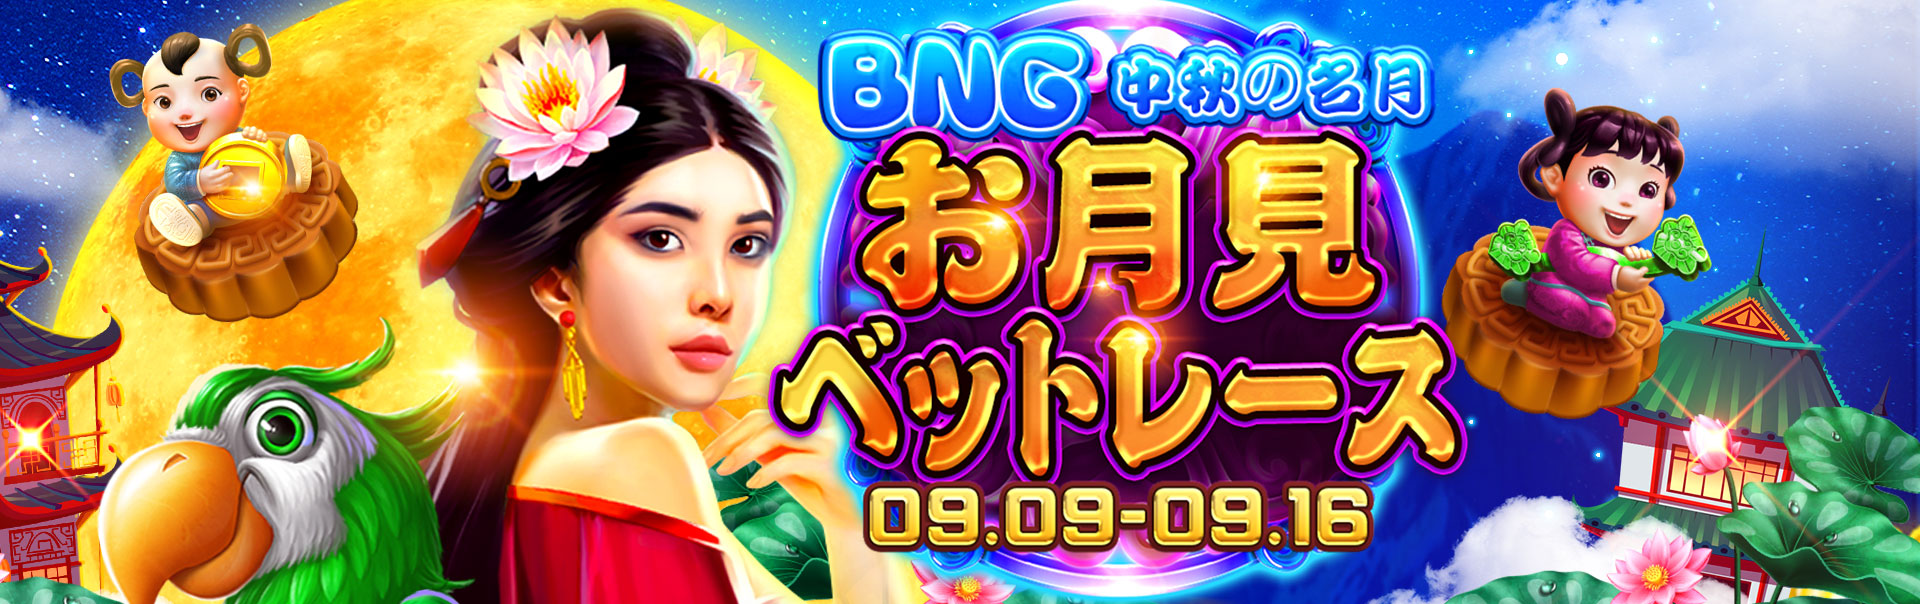
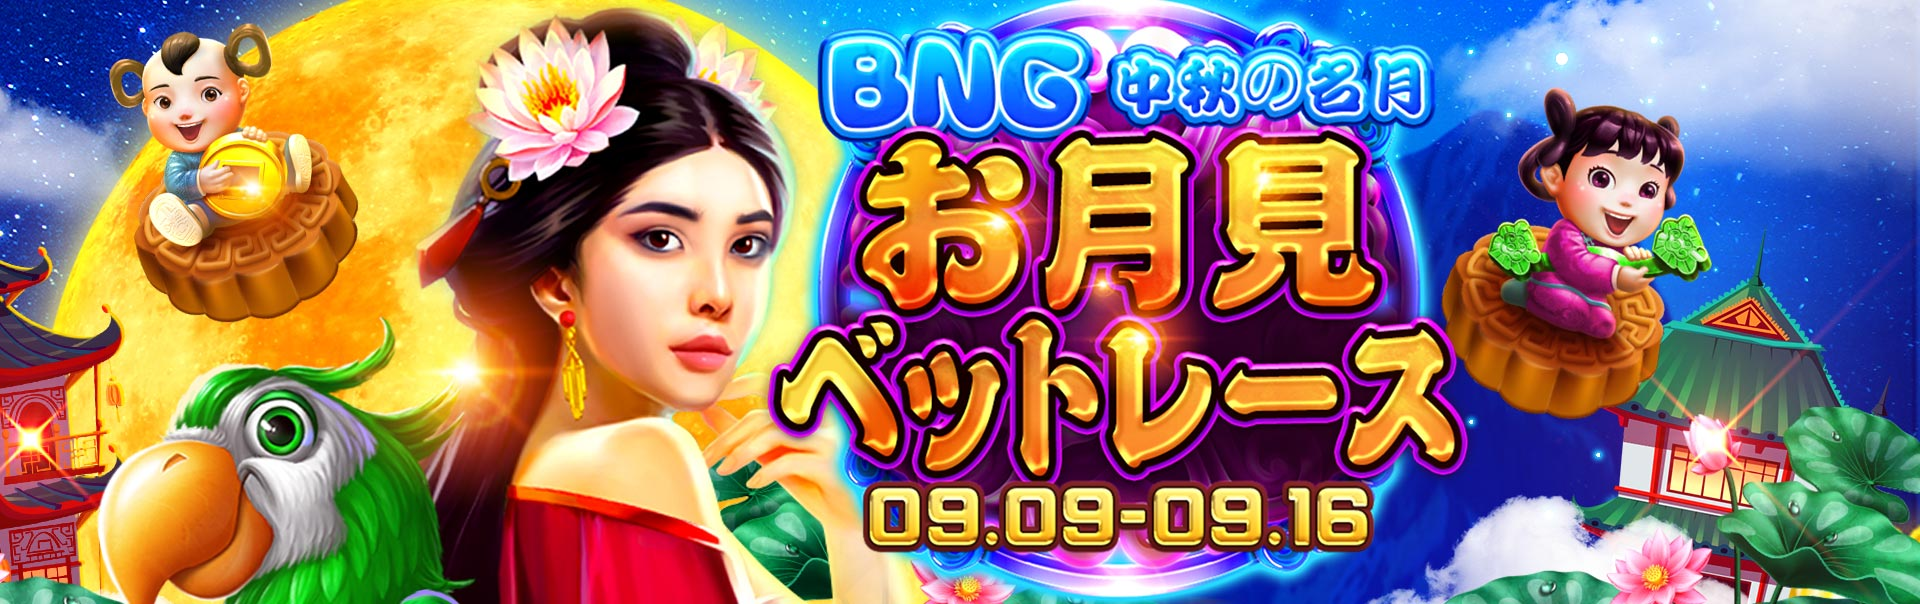
bng 中秋活動

diff --git a/Activity/event/bng/09092022/index-jp.html b/Activity/event/bng/09092022/index-jp.html
@@ -1,96 +1,78 @@
 <link rel="stylesheet" href="/Activity/event/basic.css">
-<link rel="stylesheet" href="/Activity/event/ne-rt/08222022/index.css">
+<!-- <link rel="stylesheet" href="/Activity/event/bng/09092022/index.css"> -->
 
 <!-- 活動 Banner Start "activity-popup-detail-img" ====-->
 <div class="activity-popup-detail-img">
-	<img src="/Activity/event/ne-rt/08222022/img/img-w.jpg" class="desktop" alt="">
-	<img src="/Activity/event/ne-rt/08222022/img/img-act.jpg" class="mobile" alt="">
+	<img src="/Activity/event/bng/09092022/img/img-w.jpg" class="desktop" alt="">
+	<img src="/Activity/event/bng/09092022/img/img-act.jpg" class="mobile" alt="">
 </div>
 <!-- 活動 Banner END ===================-->
 
 <div class="section-act-wrapper">
 	<article class="article-act">
-		<p class="act-title act-intro">ネットエント（NE）とレッドタイガー（RT）のゲームをプレイすれば、 最大135,000の<span class="text-red">ギフトマネー</span>が貰えるよ！</p>
-		<p  class="act-title"></p>
+		<p class="act-title act-intro">名月の候、大吉と共にお月見ベットレースに参加し、ブンーゴーの対象ゲームで100ラウンドベットし、誰が最も沢山ギフトマネーをもらえるかを競い合おう！</p>
+		<p class="act-title"></p>
 
 		<!--活動期間-->
 		<section class="section-act-wrap">
-			<h3>【 キャンペーン期間 】</h3>
+			<h3 class="section-act-title">【 キャンペーン期間 】</h3>
 			<div class="section-act-content">
-				<p>2022/08/22 09:00 ~ 2022/09/18 09:00 (UTC+9)</p>
+				<p>2022/09/09 13:00 ~ 2022/09/16 13:00 (UTC+9)</p>
 			</div>
 		</section>
 
 		<!--活動內容-->
 		<section class="section-act-wrap">
-			<h3>【 キャンペーン内容 】</h3>
+			<h3 class="section-act-title">【 キャンペーン内容 】</h3>
 			<div class="section-act-content">
-				<p>
-					マハラジャは初めてネットエント（NE）とレッドタイガー（RT）とコラボキャンペーンを行います！指定プロバイダーのゲームをプレイすれば、ランキングに挑戦しトーナメントの<span class="text-red">ギフトマネー</span>を獲得するチャンスがあります。ラッキーキャッシュ<span class="text-red">（ギフトマネー）</span>もご用意いたしております！
-				</p>
+				<p>キャンペーン期間中にブン―ゴーの対象ゲームをプレイし、合計100ラウンドベットすれば、換算されたポイントによりランキングされ、高額なギフトマネーがもらえます！</p>
 			</div>
-
-
 		</section>
 
 		<!--活動規則-->
 		<section class="section-act-wrap">
-			<h3>【 キャンペーンルール 】</h3>
-			<div class="section-act-content">
-				<div>
-					<span class="act-title">トーナメント</span>　
-					<p class="">期間中にネットエント（NE） またはレッドタイガー（RT）の ゲームで最も多く賭けた上位 2500
-						人のプレイヤーは、トーナメントの賞金情報に基づいて対応する賞金ベースを獲得します。</p>
-
-				</div>
-				<div><span class="act-title">キャッシュ ドロップ</span>
-					<p>期間中にネットエント（NE） またはレッドタイガー（RT）の ゲームで賭けたプレイヤーに賞品がランダムに送られます。</p>					
-				</divp>
-				<p class="btn-wrap"><a href="https://www.evopromoevent.com/Evolution/BonusBomb_JP" class="act-Button"
-						target="_blank">キャンペーン詳細及びルール説明</a></p>
-			</div>
-
+			<p class="btn-wrap"><a href="https://servicebooongo.com/bngevent/event?event=202209BR&lang=jp&currency=JPY"
+					class="act-Button" target="_blank">キャンペーン詳細及びルール説明</a></p>
 		</section>
 
-		<!--活動規則-->
+		<!--活動對象遊戲-->
 		<section class="section-act-wrap">
-			<h3>【キャンペーン日程(UTC+9)】</h3>
-			<div class="section-act-content">
-				<ul class="game-date">
-					<li class="date-item">
-						<span class="title act-title2">トーナメント</span>
-						<span class="date">：08/22 09:00 - 08/28 09:00</span>
-					 </li>
-					<li class="date-item">
-						<span class="title act-title2">キャッシュ ドロップ</span>
-						<span class="date">：08/29 09:00 - 09/04 09:00</span>
-					</li>
-					<li class="date-item">
-						<span class="title act-title2">トーナメント</span>
-						<span class="date">：09/05 09:00 - 09/11 09:00</span>
-					</li>
-					<li class="date-item">
-						<span class="title act-title2">キャッシュ ドロップ</span>
-						<span class="date">：09/12 09:00 - 09/18 09:00</span>
-					</li>
-				</ul>
-
-			</div>
+			<h3 class="section-act-title">【 対象ゲーム 】</h3>
+			<ul class="act-game-list row">
+				<li class="act-game-item col-6 col-smd-4 col-lg-3"><a  onclick="window.parent.openGame('BNG','270','ロータス チャーム')"><span class="img-crop"><img src="Activity/event/bng/09092022/img/icon/270.png" alt="チャーム" title="チャーム"></span></a></li>
+				<li class="act-game-item col-6 col-smd-4 col-lg-3"><a  onclick="window.parent.openGame('BNG','265','カイシェン・ウェルス')"><span class="img-crop"><img src="Activity/event/bng/09092022/img/icon/265.png" alt="カイシェン・ウェルス" title="カイシェン・ウェルス"></span></a></li>
+				<li class="act-game-item col-6 col-smd-4 col-lg-3"><a  onclick="window.parent.openGame('BNG','267','ザ キング オブ ヒーローズ')"><span class="img-crop"><img src="Activity/event/bng/09092022/img/icon/267.png" alt="ザ キング オブ ヒーローズ" title="ザ キング オブ ヒーローズ"></span></a></li>
+				<li class="act-game-item col-6 col-smd-4 col-lg-3"><a  onclick="window.parent.openGame('BNG','269','エッグス オブ ゴールド')"><span class="img-crop"><img src="Activity/event/bng/09092022/img/icon/269.png" alt="エッグス オブ ゴールド" title="エッグス オブ ゴールド"></span></a></li>
+				<li class="act-game-item col-6 col-smd-4 col-lg-3"><a  onclick="window.parent.openGame('BNG','242','タイガー ジャングル')"><span class="img-crop"><img src="Activity/event/bng/09092022/img/icon/242.png" alt="タイガー ジャングル" title="タイガー ジャングル"></span></a></li>
+				<li class="act-game-item col-6 col-smd-4 col-lg-3"><a  onclick="window.parent.openGame('BNG','228','ゴールドヒット！')"><span class="img-crop"><img src="Activity/event/bng/09092022/img/icon/228.png" alt="ゴールドヒット！" title="ゴールドヒット！"></span></a></li>
+				<li class="act-game-item col-6 col-smd-4 col-lg-3"><a  onclick="window.parent.openGame('BNG','254','ブラック ウルフ')"><span class="img-crop"><img src="Activity/event/bng/09092022/img/icon/254.png" alt="ブラック ウルフ" title="ブラック ウルフ"></span></a></li>
+				<li class="act-game-item col-6 col-smd-4 col-lg-3"><a  onclick="window.parent.openGame('BNG','262','太陽の神殿3-幸運が集う')"><span class="img-crop"><img src="Activity/event/bng/09092022/img/icon/262.png" alt="太陽の神殿3-幸運が集う" title="太陽の神殿3-幸運が集う"></span></a></li>
+				<li class="act-game-item col-6 col-smd-4 col-lg-3"><a  onclick="window.parent.openGame('BNG','261','ハッピー・フィッシュ')"><span class="img-crop"><img src="Activity/event/bng/09092022/img/icon/261.png" alt="ハッピー・フィッシュ" title="ハッピー・フィッシュ"></span></a></li>
+				
+			</ul>
 		</section>
 
 		<!--注意事項-->
 		<section class="section-act-wrap">
 			<h3 class="section-act-wrap-title">【 注意事項 】</h3>
 			<div class="section-act-content">
-				<p class="act-notice">1. 本キャンペーンにベット金額の制限がありません。</p>
-				<p class="act-notice">2. プロモーション期間中に週間賞を獲得したプレイヤーは、次の期間も引き続き週間賞の対象となります。</p>
-				<p class="act-notice">3. 同一アカウント・電話番号・IPアドレス・共有PC・ネット環境につき、一回のみ参加できます。</p>
-				<p class="act-notice">4.
-					公正なゲーム環境を確保するため、不正行為でゲームしたり、ほかの会員を妨害したりし、ゲーム規約に違反したことが確認された場合、該当アカウントを凍結させていただきます。
-				</p>
-				<p class="act-notice">5. マハラジャはキャンペーンの修正およびキャンセルする権利を留保します。</p>
+				<ul class="act-notice-list">
+					<li class="act-notice-item">1. プレイヤーがランキングの資格を得ると、キャンペーン期間中のすべての有効な賭けラウンドがポイント計算に含まれます。</li>
+					<li class="act-notice-item">2. ポイントは小数点以下第2位に四捨五入して計算します。</li>
+					<li class="act-notice-item">3. このキャンペーンに参加できるのは、有効なベットラウンドのみです。</li>
+					<li class="act-notice-item">4. 同一アカウント・電話番号・IPアドレス・共有PC・ネット環境につき、一回のみ参加できます。</li>
+					<li class="act-notice-item">5.
+						公正なゲーム環境を確保するため、不正行為でゲームしたり、ほかの会員を妨害したりし、ゲーム規約に違反したことが確認された場合、該当アカウントを凍結させていただきます。</li>
+					<li class="act-notice-item">6. マハラジャはキャンペーンの修正およびキャンセルする権利を留保します。</li>
+				</ul>
+				<!-- <p class="act-notice">1. プレイヤーがランキングの資格を得ると、キャンペーン期間中のすべての有効な賭けラウンドがポイント計算に含まれます。</p>
+				<p class="act-notice">2. ポイントは小数点以下第2位に四捨五入して計算します。</p>
+				<p class="act-notice">3. このキャンペーンに参加できるのは、有効なベットラウンドのみです。</p>
+				<p class="act-notice">4. 同一アカウント・電話番号・IPアドレス・共有PC・ネット環境につき、一回のみ参加できます。
+					<p class="act-notice">5. 公正なゲーム環境を確保するため、不正行為でゲームしたり、ほかの会員を妨害したりし、ゲーム規約に違反したことが確認された場合、該当アカウントを凍結させていただきます。
+					</p>
+					<p class="act-notice">6. マハラジャはキャンペーンの修正およびキャンセルする権利を留保します。</p> -->
 			</div>
 		</section>
 	</article>
-
 </div>

diff --git a/Activity/event/basic.css b/Activity/event/basic.css
@@ -4,6 +4,9 @@
     color: #666;
     font-family: 'Noto Sans JP', sans-serif!important;
 }
+.section-act-wrapper{
+    font-weight: 300;
+}
 .section-act-wrap{
     margin-bottom: 2.5rem;
 }
@@ -62,9 +65,37 @@
     width: 10px;
     height: 14px;
 }
+/* 注意事項 */
 .act-notice{
     color: #666;
 }
+
+.act-notice-list .act-notice-item{
+    text-indent: -1.2rem;
+    margin-bottom: 1rem;
+    margin-left: 1.2rem;
+}
+
+.act-game-list{
+    /* width: 90%; */
+    margin: 0 auto;
+    max-width: 660px;
+    margin-top: 20px;
+
+}
+
+.act-game-list .act-game-item{
+    margin-bottom: 10px;
+    cursor: pointer;
+    
+}
+.act-game-list .act-game-item .img-crop{
+    border-radius: 20px;
+    overflow: hidden;
+    display: inline-block;    
+}
+
+
 .mark-red{
     color: #940202;
     font-weight: bold;
